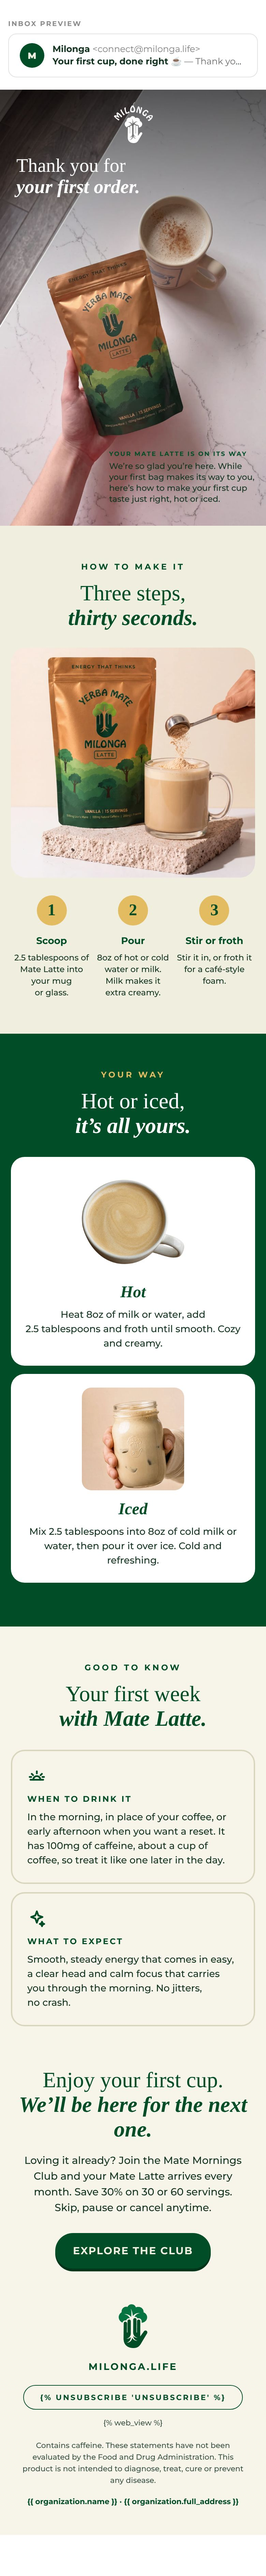
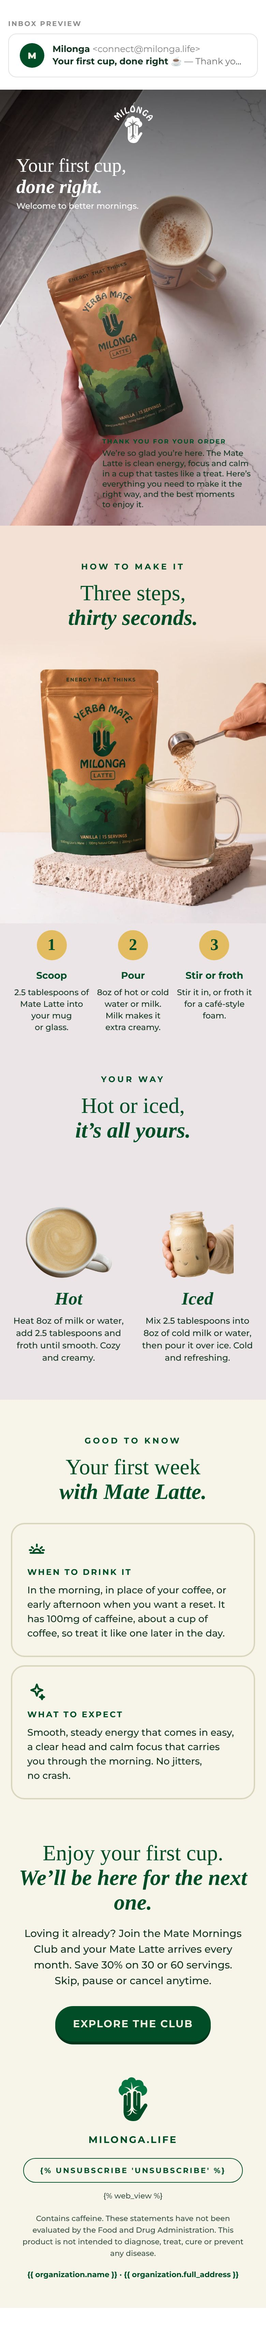
Post-purchase E1: 'Your first cup, done right' title with thank-you and brand promise; scoop photo as the whole how-to section; hot/iced on its table colour
Claude-Session: https://claude.ai/code/session_01NhEtXPnfeCJfN73SqBkUZ5

diff --git a/email-ds/refine/pp1-e1.html b/email-ds/refine/pp1-e1.html
@@ -24,11 +24,12 @@ body{margin:0;background:#FFFFFF;padding:28px 0 60px}
     .hero-top { padding:18px 24px 0 !important; }
     .hero-logo { width:57px !important; height:60px !important; }
     .hero-title { font-size:28px !important; line-height:31px !important; }
-    .hero-gap { height:368px !important; line-height:368px !important; }
-    .hero-lead { width:160px !important; }
+    .hero-welcome { padding-top:4px !important; font-size:12px !important; line-height:16px !important; }
+    .hero-gap { height:330px !important; line-height:330px !important; }
+    .hero-lead { width:150px !important; }
     .hero-text { padding-right:16px !important; }
     .hero-eyebrow { font-size:9px !important; line-height:12px !important; letter-spacing:1.5px !important; }
-    .hero-intro { padding-top:4px !important; font-size:12px !important; line-height:16px !important; }
+    .hero-intro { padding-top:4px !important; font-size:11.5px !important; line-height:15px !important; }
     .h-sec { font-size:32px !important; line-height:36px !important; }
     .step { padding:0 4px !important; }
     .step-t { font-size:14px !important; }
@@ -41,7 +42,8 @@ body{margin:0;background:#FFFFFF;padding:28px 0 60px}
   @media (prefers-color-scheme: dark) {
     .bg-white { background-color:#FFFFFF !important; }
     .bg-page { background-color:#F0EFDF !important; }
-    .bg-table { background-color:#ECE5E7 !important; }
+    .bg-table { background-color:#EBE5E7 !important; }
+    .bg-wall { background-color:#F2E1D4 !important; }
     .bg-cream { background-color:#F7F4EA !important; }
   }
 </style></head><body>
@@ -52,34 +54,36 @@ body{margin:0;background:#FFFFFF;padding:28px 0 60px}
 <tr><td align="center">
 <table role="presentation" class="wrap" width="600" cellpadding="0" cellspacing="0" border="0" style="width:600px;max-width:600px;table-layout:fixed;">
 
-<!-- ── 1 · THANK YOU (Bernat's photo is the section's background: the white logo
-     centered at the top, the white title left-aligned on the darkened top, the
-     intro on the marble under the bag, right of the hand) ── -->
+<!-- ── 1 · YOUR FIRST CUP, DONE RIGHT (Bernat's photo is the section's background:
+     the white logo centered at the top, the white title left-aligned on the
+     darkened top, the thank-you and the brand promise on the marble under the bag) ── -->
 <tr><td class="hero" align="left" valign="top" height="980" background="../exports/klaviyo/pp1-e1/img/hero-bg.jpg" bgcolor="#B8A6A6" style="height:980px;background-color:#B8A6A6;background-image:url('../exports/klaviyo/pp1-e1/img/hero-bg.jpg');background-size:cover;background-position:center top;background-repeat:no-repeat;padding:0;">
 <!--[if gte mso 9]><v:rect xmlns:v="urn:schemas-microsoft-com:vml" fill="true" stroke="false" style="width:600px;height:980px;"><v:fill type="frame" src="../exports/klaviyo/pp1-e1/img/hero-bg.jpg" color="#B8A6A6" /><v:textbox inset="0,0,0,0"><![endif]-->
 <div class="hero-top" style="padding:30px 40px 0;font-family:'Montserrat','Helvetica Neue',Helvetica,Arial,sans-serif;">
 <a href="https://milonga.life/?utm_source=klaviyo&amp;utm_medium=email&amp;utm_campaign=post_purchase_mate_latte&amp;utm_content=pp1_logo" target="_blank" style="display:block;text-align:center;"><img class="hero-logo" src="../exports/klaviyo/pp1-e1/img/logo-white.png" width="85" height="90" alt="Milonga" style="display:block;margin:0 auto;width:85px;height:90px;border:0;"></a>
-<div class="hero-title" style="padding-top:18px;font-family:'Times New Roman',Times,Georgia,serif;font-size:38px;line-height:42px;font-weight:400;color:#FFFFFF;">Thank you for</div>
-<div class="hero-title" style="font-family:'Times New Roman',Times,Georgia,serif;font-size:38px;line-height:42px;font-weight:700;font-style:italic;color:#FFFFFF;">your first order.</div>
+<div class="hero-title" style="padding-top:18px;font-family:'Times New Roman',Times,Georgia,serif;font-size:38px;line-height:42px;font-weight:400;color:#FFFFFF;">Your first cup,</div>
+<div class="hero-title" style="font-family:'Times New Roman',Times,Georgia,serif;font-size:38px;line-height:42px;font-weight:700;font-style:italic;color:#FFFFFF;">done right.</div>
+<div class="hero-welcome" style="padding-top:8px;font-size:16px;line-height:22px;font-weight:500;color:#FFFFFF;">Welcome to better mornings.</div>
 </div>
-<div class="hero-gap" style="height:576px;line-height:576px;font-size:0;">&nbsp;</div>
+<div class="hero-gap" style="height:526px;line-height:526px;font-size:0;">&nbsp;</div>
 <table role="presentation" width="100%" cellpadding="0" cellspacing="0" border="0" style="table-layout:fixed;"><tr>
 <td class="hero-lead" width="255" style="width:255px;font-size:0;line-height:0;">&nbsp;</td>
 <td class="hero-text" valign="top" style="padding:0 36px 0 0;font-family:'Montserrat','Helvetica Neue',Helvetica,Arial,sans-serif;text-align:left;">
-<div class="hero-eyebrow" style="font-size:11px;line-height:15px;font-weight:700;letter-spacing:2.5px;text-transform:uppercase;color:#004D27;">Your Mate Latte is on its way</div>
-<div class="hero-intro" style="padding-top:8px;font-size:15px;line-height:22px;font-weight:500;color:#12331F;">We&rsquo;re so glad you&rsquo;re here. While your first bag makes its way to you, here&rsquo;s how to make your first cup taste just right, <span style="white-space:nowrap;">hot or iced.</span></div>
+<div class="hero-eyebrow" style="font-size:11px;line-height:15px;font-weight:700;letter-spacing:2.5px;text-transform:uppercase;color:#004D27;">Thank you for your order</div>
+<div class="hero-intro" style="padding-top:8px;font-size:15px;line-height:22px;font-weight:500;color:#12331F;">We&rsquo;re so glad you&rsquo;re here. The Mate Latte is clean energy, focus and calm in a cup that tastes like a treat. Here&rsquo;s everything you need to make it the right way, and the best moments <span style="white-space:nowrap;">to enjoy it.</span></div>
 </td></tr></table>
 <!--[if gte mso 9]></v:textbox></v:rect><![endif]-->
 </td></tr>
 
-<!-- ── 2 · HOW TO MAKE IT: THREE STEPS ─────────────────────────────── -->
-<tr><td class="pad bg-page" align="center" bgcolor="#F0EFDF" style="background-color:#F0EFDF;padding:52px 40px 0;font-family:'Montserrat','Helvetica Neue',Helvetica,Arial,sans-serif;">
+<!-- ── 2 · HOW TO MAKE IT (Bernat's scoop photo is the whole section: the title
+     sits on its cream wall colour, the steps on its white table colour) ── -->
+<tr><td class="pad bg-wall" align="center" bgcolor="#F2E1D4" style="background-color:#F2E1D4;padding:52px 40px 6px;font-family:'Montserrat','Helvetica Neue',Helvetica,Arial,sans-serif;">
 <div style="font-size:12px;line-height:16px;font-weight:700;letter-spacing:3px;text-transform:uppercase;color:#004D27;">How to make it</div>
 <div class="h-sec" style="padding-top:12px;font-family:'Times New Roman',Times,Georgia,serif;font-size:40px;line-height:44px;font-weight:400;color:#004D27;">Three steps,</div>
 <div class="h-sec" style="font-family:'Times New Roman',Times,Georgia,serif;font-size:40px;line-height:44px;font-weight:700;font-style:italic;color:#004D27;">thirty seconds.</div>
 </td></tr>
-<tr><td class="pad-photo bg-page" align="center" bgcolor="#F0EFDF" style="background-color:#F0EFDF;padding:26px 40px 0;font-size:0;line-height:0;"><img class="full" src="../exports/klaviyo/pp1-e1/img/howto.jpg" width="520" height="488" alt="A scoop of Mate Latte powder going into a glass mug beside the pouch" style="display:block;margin:0 auto;width:520px;height:488px;border:0;border-radius:22px;"></td></tr>
-<tr><td class="pad-photo bg-page" bgcolor="#F0EFDF" style="background-color:#F0EFDF;padding:26px 30px 52px;">
+<tr><td class="bg-wall" bgcolor="#F2E1D4" style="background-color:#F2E1D4;padding:0;font-size:0;line-height:0;"><img class="full" src="../exports/klaviyo/pp1-e1/img/howto-bg.jpg" width="600" height="651" alt="A scoop of Mate Latte powder going into a glass mug beside the pouch" style="display:block;width:600px;height:651px;border:0;"></td></tr>
+<tr><td class="pad-photo bg-table" bgcolor="#EBE5E7" style="background-color:#EBE5E7;padding:10px 30px 20px;">
 <table role="presentation" width="100%" cellpadding="0" cellspacing="0" border="0" style="table-layout:fixed;"><tr>
 <td class="step" width="33%" align="center" valign="top" style="width:33%;padding:0 8px;font-family:'Montserrat','Helvetica Neue',Helvetica,Arial,sans-serif;">
 <table role="presentation" cellpadding="0" cellspacing="0" border="0" align="center" style="margin:0 auto;border-collapse:separate;"><tr><td align="center" valign="middle" width="44" height="44" bgcolor="#E3BC62" style="width:44px;height:44px;border-radius:22px;background-color:#E3BC62;font-family:'Times New Roman',Times,Georgia,serif;font-size:24px;line-height:44px;font-weight:700;color:#004D27;">1</td></tr></table>
@@ -100,12 +104,12 @@ body{margin:0;background:#FFFFFF;padding:28px 0 60px}
 </td></tr>
 
 <!-- ── 3 · HOT OR ICED (on the light table colour of the scoop photo above) ── -->
-<tr><td class="pad bg-table" align="center" bgcolor="#ECE5E7" style="background-color:#ECE5E7;padding:52px 40px 0;font-family:'Montserrat','Helvetica Neue',Helvetica,Arial,sans-serif;">
+<tr><td class="pad bg-table" align="center" bgcolor="#EBE5E7" style="background-color:#EBE5E7;padding:40px 40px 0;font-family:'Montserrat','Helvetica Neue',Helvetica,Arial,sans-serif;">
 <div style="font-size:12px;line-height:16px;font-weight:700;letter-spacing:3px;text-transform:uppercase;color:#004D27;">Your way</div>
 <div class="h-sec" style="padding-top:12px;font-family:'Times New Roman',Times,Georgia,serif;font-size:40px;line-height:44px;font-weight:400;color:#004D27;">Hot or iced,</div>
 <div class="h-sec" style="font-family:'Times New Roman',Times,Georgia,serif;font-size:40px;line-height:44px;font-weight:700;font-style:italic;color:#004D27;">it&rsquo;s all yours.</div>
 </td></tr>
-<tr><td class="pad-photo bg-table" bgcolor="#ECE5E7" style="background-color:#ECE5E7;padding:30px 30px 52px;">
+<tr><td class="pad-photo bg-table" bgcolor="#EBE5E7" style="background-color:#EBE5E7;padding:30px 30px 52px;">
 <table role="presentation" width="100%" cellpadding="0" cellspacing="0" border="0" style="table-layout:fixed;"><tr>
 <td class="drink" width="50%" align="center" valign="top" style="width:50%;padding:0 10px 0 0;font-family:'Montserrat','Helvetica Neue',Helvetica,Arial,sans-serif;">
 <img class="drink-img" src="../exports/klaviyo/pp1-e1/img/drink-hot.png" width="200" height="240" alt="A hot Mate Latte in a glass mug" style="display:block;margin:0 auto;width:200px;height:240px;border:0;">
